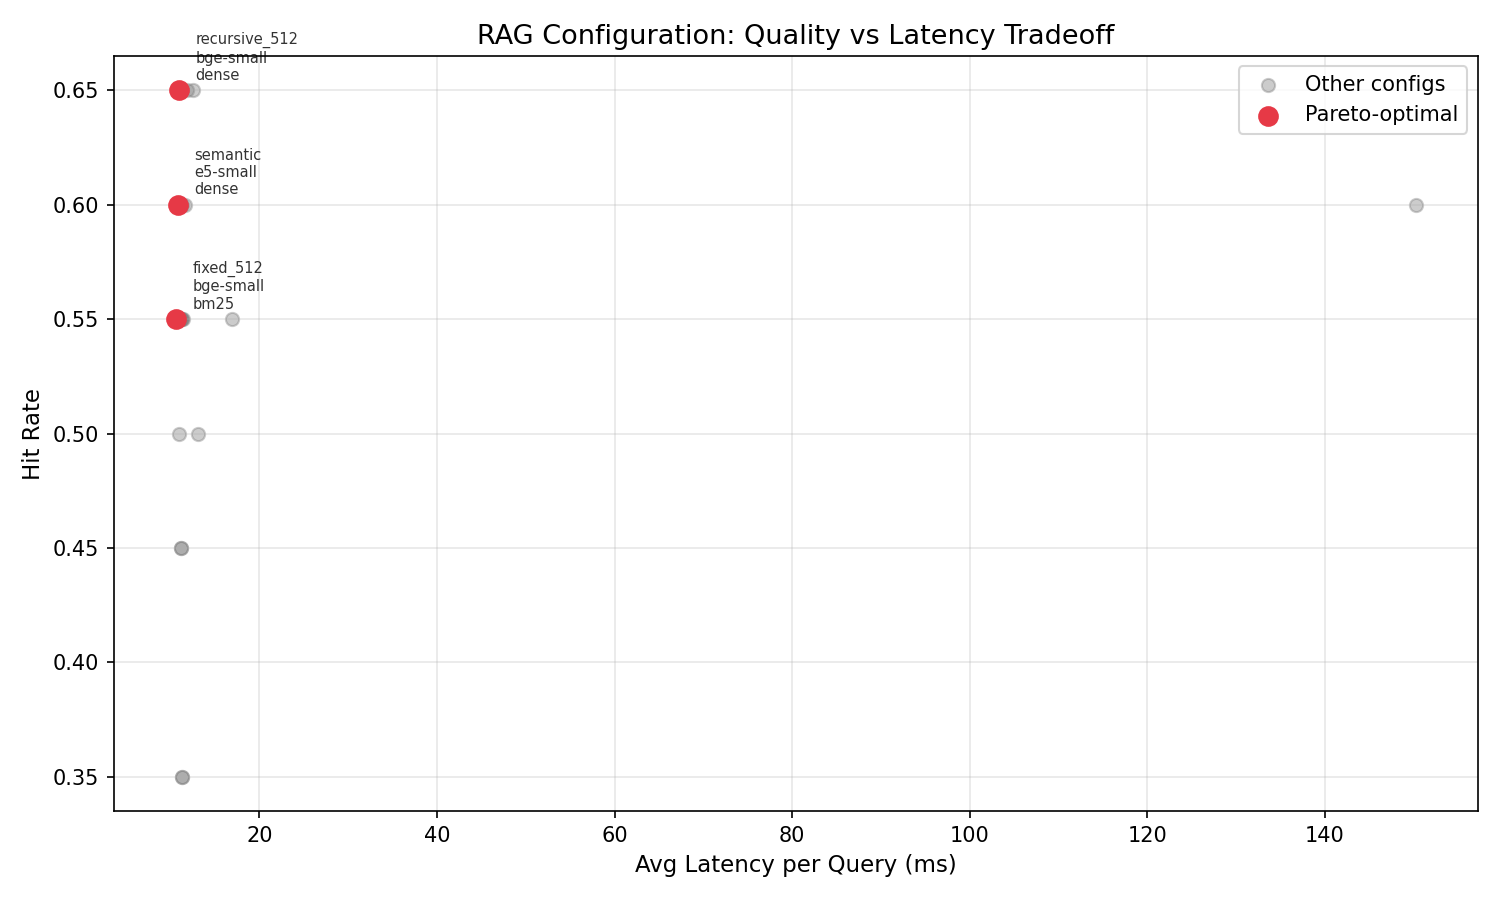
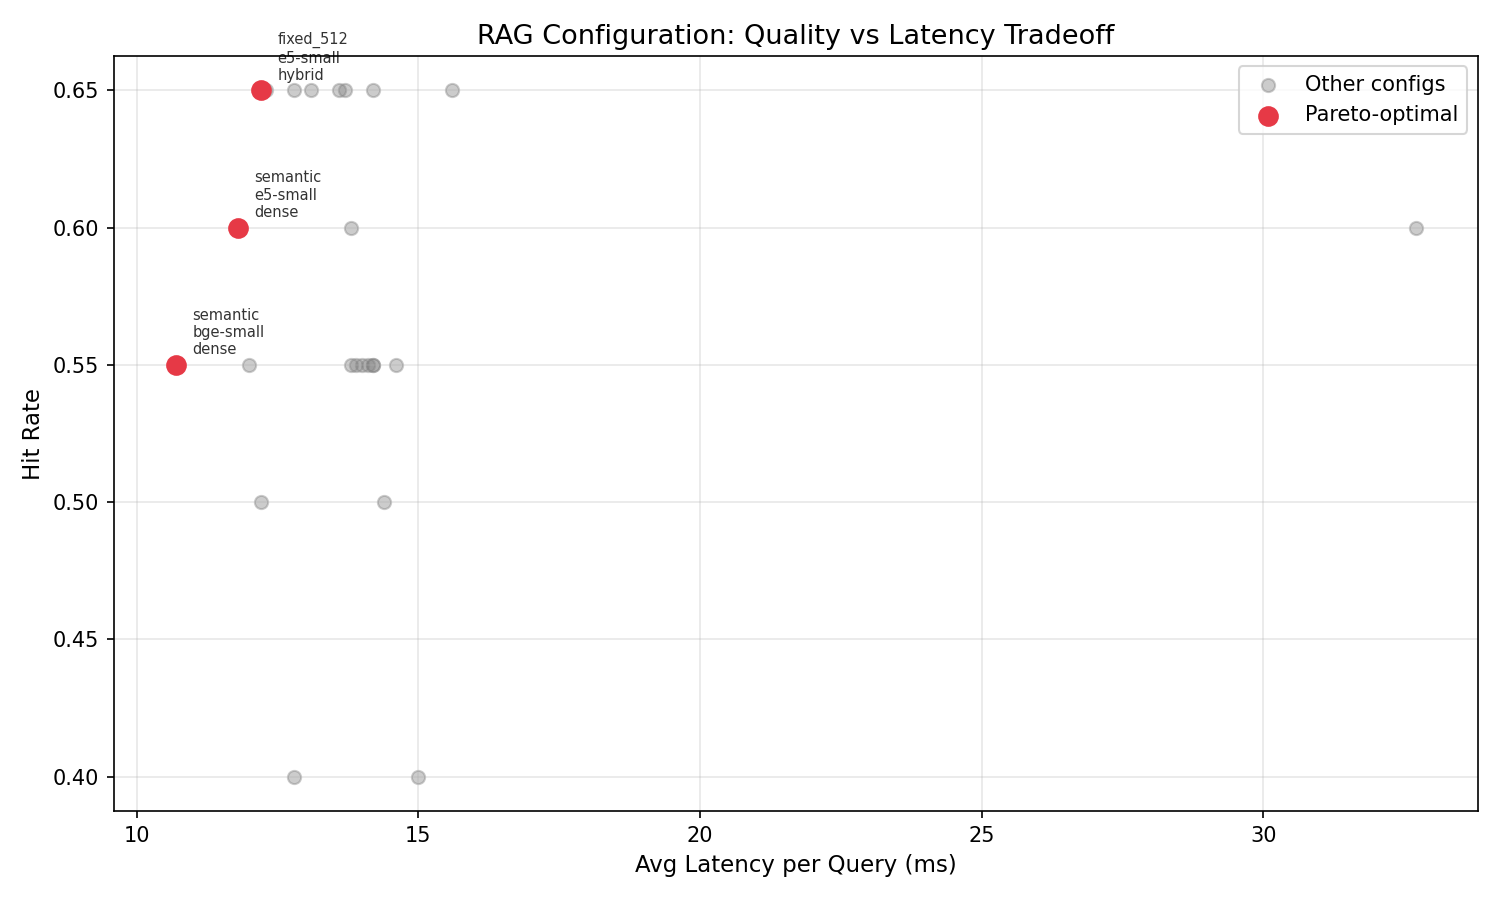
Refresh sample benchmark proof [skip ci]

diff --git a/docs/verification.md b/docs/verification.md
@@ -1,0 +1,64 @@
+# Verification
+
+Last local verification: 2026-05-20
+
+## Unit and Lint Gate
+
+Command:
+
+```bash
+PYTHON=.venv/bin/python make verify
+```
+
+Result:
+
+- Tests: 35 passed
+- Ruff: clean
+
+## Keyless Sample Benchmark
+
+Command:
+
+```bash
+rm -rf /tmp/rag-forge-sample-smoke-check
+PYTHON=.venv/bin/python ./scripts/run-sample-benchmark.sh /tmp/rag-forge-sample-smoke-check
+```
+
+Scope:
+
+- Documents: `data/sample` (`3` files)
+- QA pairs: `data/sample/qa.csv` (`20` questions)
+- Configurations: `24`
+- OpenAI embeddings: skipped
+- Cross-encoder reranker: skipped
+
+Result:
+
+- Best configuration: `recursive_512|bge-small|dense|none`
+- Best hit rate: `0.650`
+- Best MRR: `0.600`
+- Recommendation latency on this run: `13.6ms`
+- Artifacts generated: `results.md`, `results.json`, `pareto.png`
+
+## Regression Gate
+
+Command:
+
+```bash
+PYTHON=.venv/bin/python -m rag_forge.cli gate \
+  --baseline /tmp/rag-forge-sample-smoke-check/results.json \
+  --current /tmp/rag-forge-sample-smoke-check/results.json \
+  --output docs/sample-regression-gate.json \
+  --markdown docs/sample-regression-gate.md
+```
+
+Result:
+
+- Verdict: `pass`
+- Maximum allowed hit-rate drop: `0.02`
+- Maximum allowed MRR drop: `0.02`
+- Maximum allowed latency increase: `25%`
+
+This is a local proof artifact. The sample corpus is intentionally small, so the
+numbers should be read as smoke-test evidence for the runner and gate rather than a
+general retrieval benchmark.

diff --git a/docs/sample-benchmark.md b/docs/sample-benchmark.md
@@ -40,11 +40,11 @@ Top configurations from the latest local run:
 
 | Rank | Chunker | Embedder | Retriever | Reranker | Hit Rate | MRR | Latency |
 |---:|---|---|---|---|---:|---:|---:|
-| 1 | recursive_512 | bge-small | dense | none | 0.650 | 0.600 | 11ms |
-| 2 | recursive_512 | e5-small | dense | none | 0.650 | 0.600 | 12ms |
-| 3 | recursive_512 | bge-small | hybrid | none | 0.650 | 0.592 | 11ms |
-| 4 | recursive_512 | e5-small | hybrid | none | 0.650 | 0.562 | 12ms |
-| 5 | fixed_512 | bge-small | hybrid | none | 0.650 | 0.560 | 13ms |
+| 1 | recursive_512 | bge-small | dense | none | 0.650 | 0.600 | 14ms |
+| 2 | recursive_512 | e5-small | dense | none | 0.650 | 0.600 | 14ms |
+| 3 | recursive_512 | bge-small | hybrid | none | 0.650 | 0.592 | 14ms |
+| 4 | recursive_512 | e5-small | hybrid | none | 0.650 | 0.562 | 13ms |
+| 5 | fixed_512 | bge-small | hybrid | none | 0.650 | 0.560 | 12ms |
 
 Latency is local-machine timing from a smoke run and should be treated as directional.
 

diff --git a/README.md b/README.md
@@ -15,9 +15,9 @@ embeddings and dense retrieval was the best default candidate for this corpus.
 
 | Candidate | Hit Rate | MRR | Local Latency |
 |---|---:|---:|---:|
-| `recursive_512|bge-small|dense|none` | 0.650 | 0.600 | 11ms |
-| `recursive_512|e5-small|dense|none` | 0.650 | 0.600 | 12ms |
-| `recursive_512|bge-small|hybrid|none` | 0.650 | 0.592 | 11ms |
+| `recursive_512|bge-small|dense|none` | 0.650 | 0.600 | 14ms |
+| `recursive_512|e5-small|dense|none` | 0.650 | 0.600 | 14ms |
+| `recursive_512|bge-small|hybrid|none` | 0.650 | 0.592 | 14ms |
 
 ![Sample Pareto plot](docs/assets/sample-pareto.png)
 
@@ -105,6 +105,7 @@ make verify
 ```
 
 Last local verification (2026-05-20): `35 passed` and `ruff` clean.
+Latest local verification details: [docs/verification.md](docs/verification.md).
 
 For the included keyless sample benchmark:
 

diff --git a/docs/sample-regression-gate.md b/docs/sample-regression-gate.md
@@ -9,7 +9,7 @@
 | Config | `recursive_512|bge-small|dense|none` | `recursive_512|bge-small|dense|none` |
 | Hit rate | 0.65 | 0.65 |
 | MRR | 0.6 | 0.6 |
-| Latency | 10.7ms | 10.7ms |
+| Latency | 13.6ms | 13.6ms |
 | Configurations | 24 | 24 |
 
 ## Checks